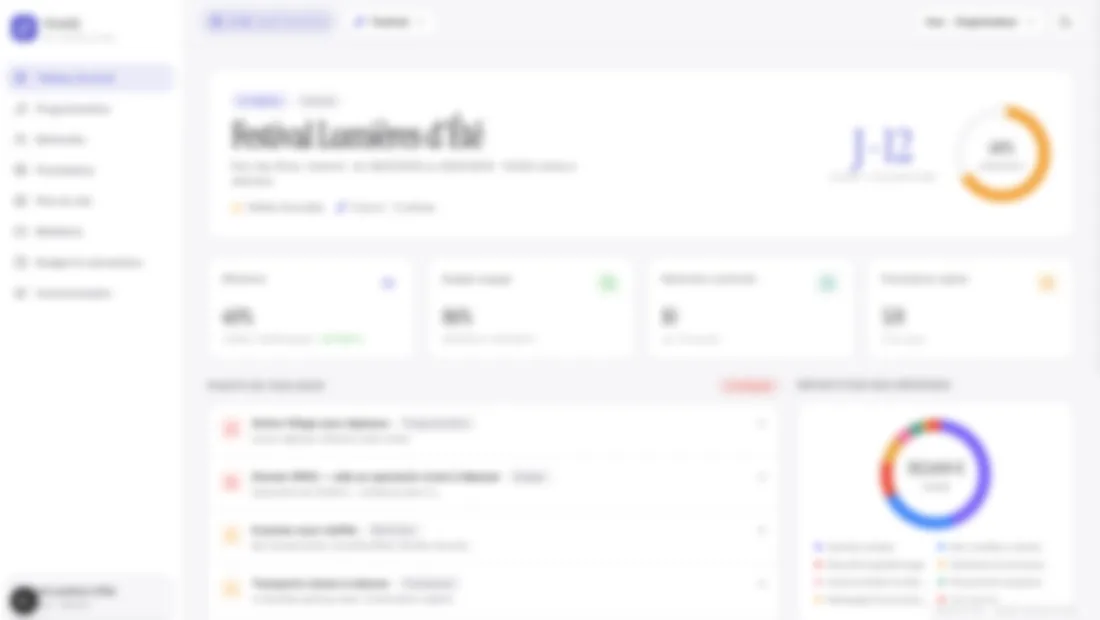
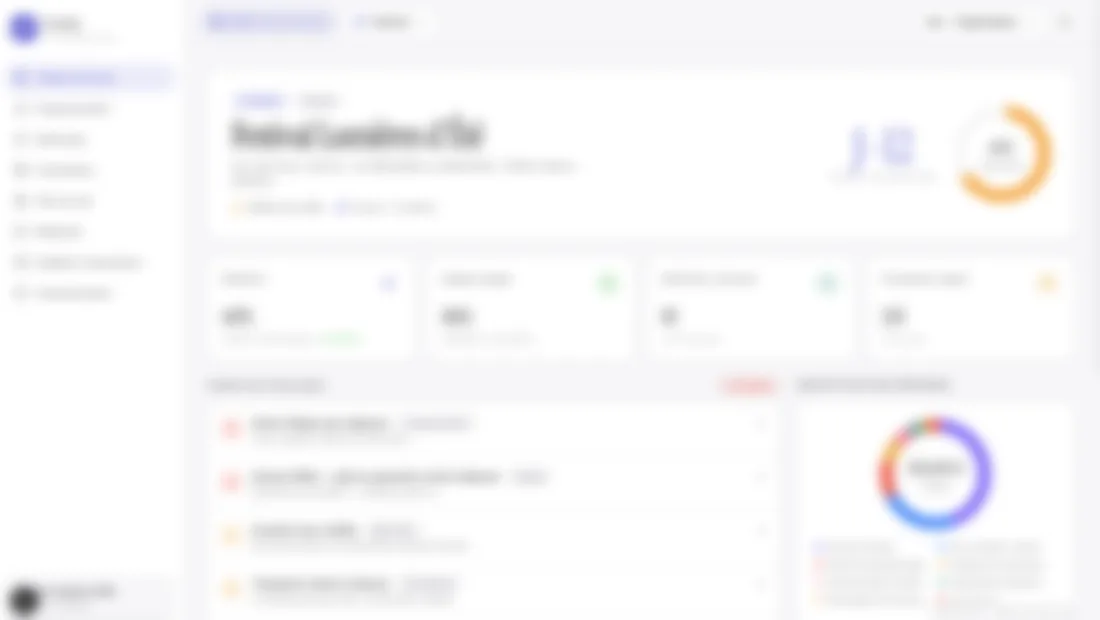
refactor: mockups flou léger uniforme + recadrage anti-noms, retire 4 cartes à données perso, accélère le mobile
- Flou uniforme léger (6) sur toutes les cartes, en-têtes à nom client recadrés (chromosome, tcrm/FASANG, chartreux-stock).
- Retrait de chartreux-rh, hotesses, vibratec, scabb : noms réels DANS le contenu, impossibles à garder au flou léger sans les exposer. Bande = 10 cartes.
- Marquees (logos + mockups) accélérés sur mobile (défilement trop lent).

diff --git a/components/home/WhatWeBuild.tsx b/components/home/WhatWeBuild.tsx
@@ -23,17 +23,13 @@ type Mockup = { slug: string; fr: string; en: string }
 const mockups: Mockup[] = [
   { slug: 'chromosome',      fr: 'Planning & gestion d’équipe · Restauration',    en: 'Scheduling & team management · Hospitality' },
   { slug: 'tcrm',            fr: 'CRM pédagogique · Enseignement',                en: 'Educational CRM · Education' },
-  { slug: 'chartreux-rh',    fr: 'RH & pointeuse · Institution',                  en: 'HR & time tracking · Institution' },
   { slug: 'chartreux-stock', fr: 'Gestion des stocks · Institution',              en: 'Inventory management · Institution' },
   { slug: 'simplebook',      fr: 'Réservations en temps réel · Restauration',     en: 'Real-time bookings · Hospitality' },
   { slug: 'scrapavis',       fr: 'Réputation & avis IA · Hospitalité',            en: 'Reputation & AI reviews · Hospitality' },
   { slug: 'restaurantiq',    fr: 'Portfolio & KPI multi-sites · Conseil',         en: 'Multi-site KPI portfolio · Consulting' },
   { slug: 'estateiq',        fr: 'CRM & agents IA · Immobilier',                  en: 'CRM & AI agents · Real estate' },
   { slug: 'eventiq',         fr: 'Pilotage d’événement · Événementiel',           en: 'Event command center · Events' },
-  { slug: 'hotesses',        fr: 'Vivier & missions · Événementiel',              en: 'Talent pool & missions · Events' },
-  { slug: 'vibratec',        fr: 'Veille & appels d’offres IA · Industrie',       en: 'Tender intelligence AI · Industry' },
   { slug: 'pariselan',       fr: 'Billetterie & CRM · Club sportif',              en: 'Ticketing & CRM · Sports club' },
-  { slug: 'scabb',           fr: 'Gestion des bénévoles · Hospitalité',           en: 'Volunteer management · Hospitality' },
   { slug: 'brasserie',       fr: 'Commandes & facturation · Artisan-commerçant',  en: 'Orders & invoicing · Trade & crafts' },
 ]
 
@@ -199,7 +195,7 @@ export default function WhatWeBuild() {
         @media (max-width: 768px) {
           .build-track {
             gap: 18px;
-            animation-duration: 42s;
+            animation-duration: 24s;
           }
           .build-card {
             width: 210px;

diff --git a/components/home/ClientsBar.tsx b/components/home/ClientsBar.tsx
@@ -224,7 +224,7 @@ export default function ClientsBar() {
           }
           .clients-marquee {
             gap: 48px;
-            animation-duration: 20s;
+            animation-duration: 13s;
           }
           .clients-marquee .clients-item {
             height: 38px;
